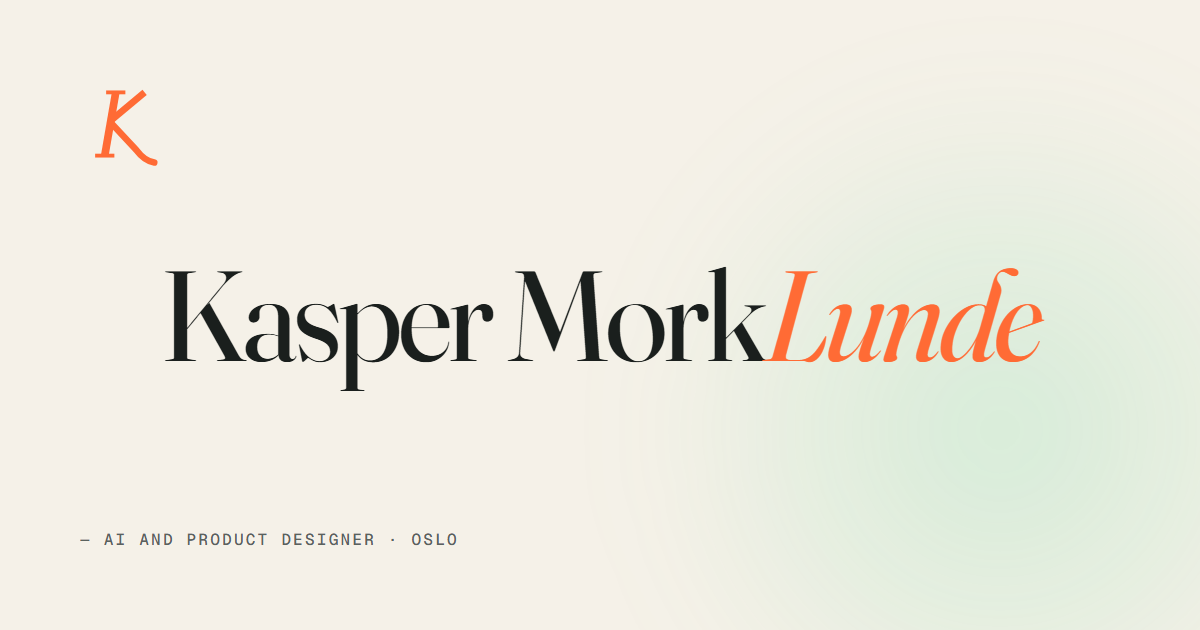
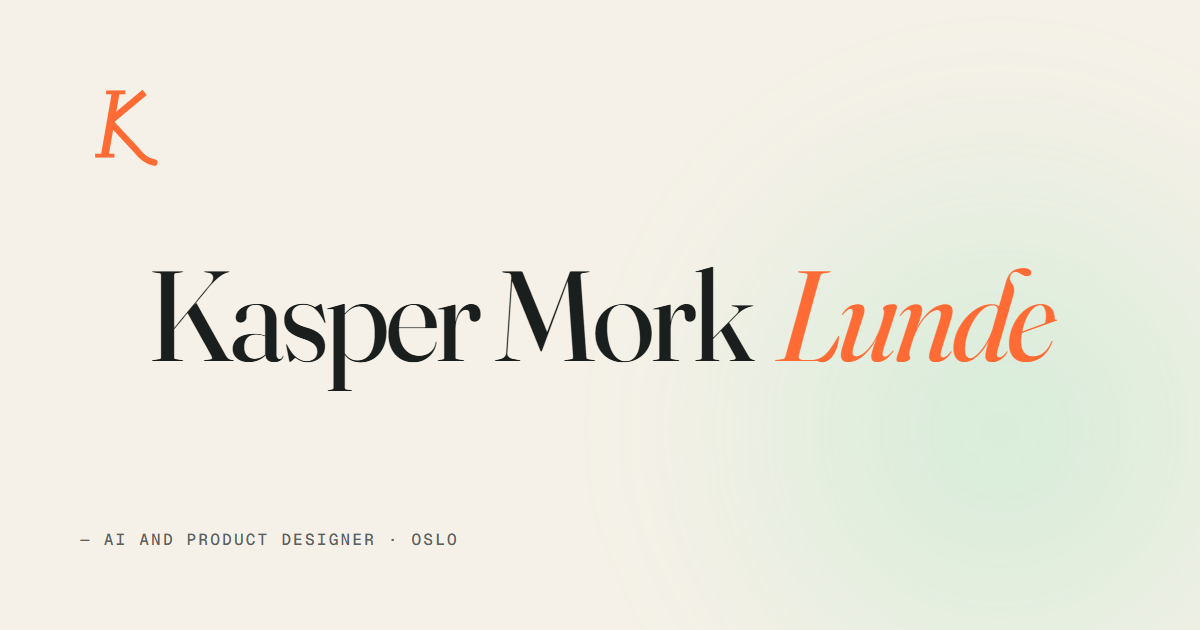
Remove twitter:creator placeholder, retighten OG image spacing
- Drop twitter:creator from all pages (handle was a defunct old
  nickname, no current X account to point at).
- Re-render og-image.png with margin-left on the italic "Lunde"
  so it doesn't visually crash into "Mork".

Changed region(s): [[0.1233, 0.4222, 0.8942, 0.6333]]

diff --git a/about.html b/about.html
@@ -23,7 +23,6 @@
 
 <!-- Twitter Card -->
 <meta name="twitter:card" content="summary_large_image">
-<meta name="twitter:creator" content="@kasperlunde">
 <meta name="twitter:image" content="https://kaslun.github.io/portfolio/assets/og-image.png">
 
 <!-- Canonical -->

diff --git a/index.html b/index.html
@@ -23,7 +23,6 @@
 
 <!-- Twitter Card -->
 <meta name="twitter:card" content="summary_large_image">
-<meta name="twitter:creator" content="@kasperlunde">
 <meta name="twitter:image" content="https://kaslun.github.io/portfolio/assets/og-image.png">
 
 <!-- Canonical -->

diff --git a/work/fast-assistant.html b/work/fast-assistant.html
@@ -23,7 +23,6 @@
 
 <!-- Twitter Card -->
 <meta name="twitter:card" content="summary_large_image">
-<meta name="twitter:creator" content="@kasperlunde">
 <meta name="twitter:image" content="https://kaslun.github.io/portfolio/assets/og-image.png">
 
 <!-- Canonical -->

diff --git a/work/morkredd.html b/work/morkredd.html
@@ -23,7 +23,6 @@
 
 <!-- Twitter Card -->
 <meta name="twitter:card" content="summary_large_image">
-<meta name="twitter:creator" content="@kasperlunde">
 <meta name="twitter:image" content="https://kaslun.github.io/portfolio/assets/og-image.png">
 
 <!-- Canonical -->

diff --git a/work/questboard.html b/work/questboard.html
@@ -23,7 +23,6 @@
 
 <!-- Twitter Card -->
 <meta name="twitter:card" content="summary_large_image">
-<meta name="twitter:creator" content="@kasperlunde">
 <meta name="twitter:image" content="https://kaslun.github.io/portfolio/assets/og-image.png">
 
 <!-- Canonical -->

diff --git a/work/resonance.html b/work/resonance.html
@@ -23,7 +23,6 @@
 
 <!-- Twitter Card -->
 <meta name="twitter:card" content="summary_large_image">
-<meta name="twitter:creator" content="@kasperlunde">
 <meta name="twitter:image" content="https://kaslun.github.io/portfolio/assets/og-image.png">
 
 <!-- Canonical -->

diff --git a/work/shopsim.html b/work/shopsim.html
@@ -23,7 +23,6 @@
 
 <!-- Twitter Card -->
 <meta name="twitter:card" content="summary_large_image">
-<meta name="twitter:creator" content="@kasperlunde">
 <meta name="twitter:image" content="https://kaslun.github.io/portfolio/assets/og-image.png">
 
 <!-- Canonical -->
